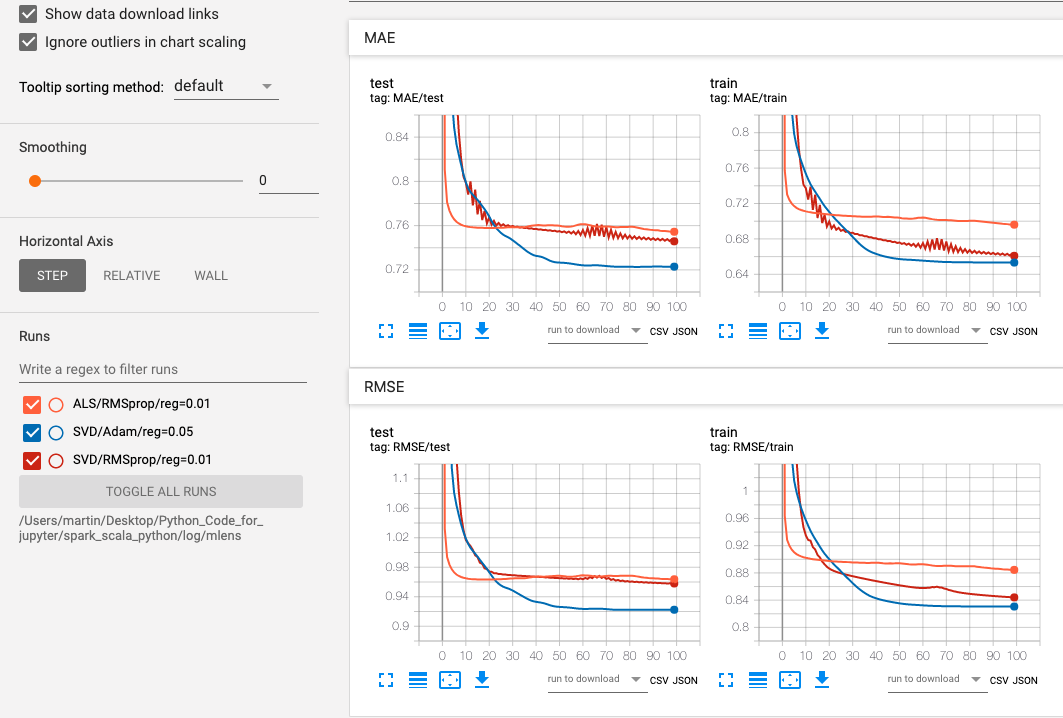
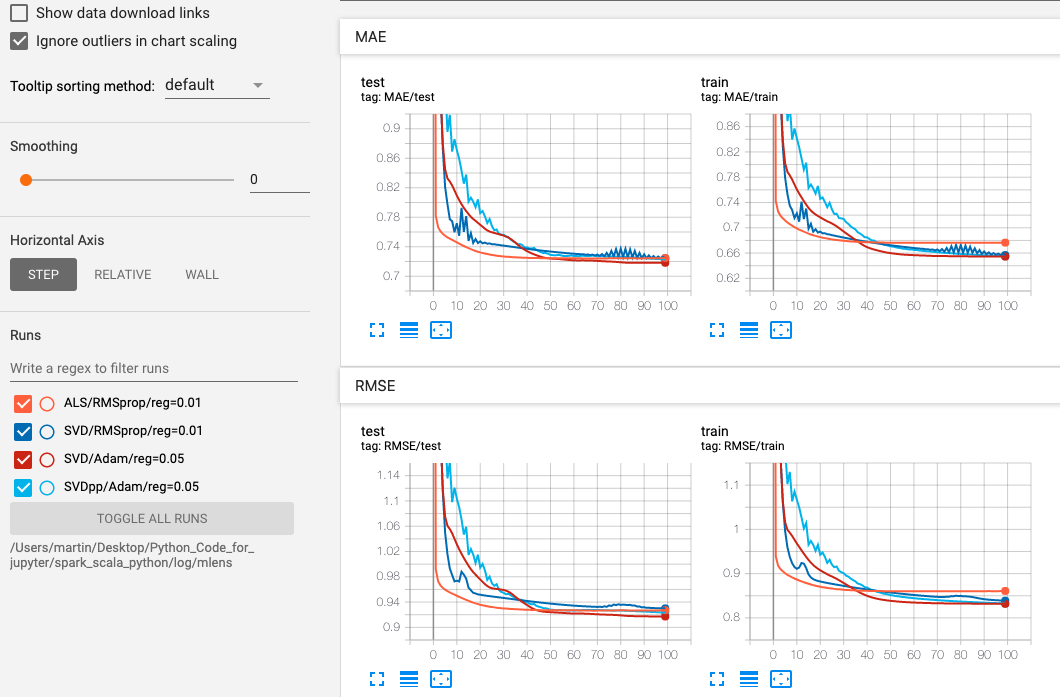
update

diff --git a/_posts/blog/2019-08-29-Rec_Sys_4.md b/_posts/blog/2019-08-29-Rec_Sys_4.md
@@ -1,6 +1,6 @@
 ---
 title: Recommender Systems (part 4)
-subtitle: Implementation of ALS and SVD Using PyTorch
+subtitle: Implementation of ALS, SVD and SVD++ Using PyTorch
 author: Ding Ma
 layout: post
 categories: [blog]
@@ -8,7 +8,7 @@ categories: [blog]
 
 <span style="font-weight:bold;font-size:32px">0. Introduction</span>
 
-In this blog, I will implement ALS, SVD and SVD with baselines using PyTorch. I will use them on the famous MovieLens 100K Dataset and its new version. Those 3 methods have already been discussed in previous blog [<span style="color:blue">here</span>](https://dingma129.github.io/blog/2019/08/27/Rec_Sys_2.html). For simplicity, all matrix factorization would be R=UV instead of R=UV^T during this blog.
+In this blog, I will implement ALS, SVD (with baselines) and SVD++  using PyTorch. I will use them on the famous MovieLens 100K Dataset and its new version. Those 3 methods have already been discussed in previous blog [<span style="color:blue">here</span>](https://dingma129.github.io/blog/2019/08/27/Rec_Sys_2.html). For simplicity, all matrix factorization would be R=UV instead of R=UV^T during this blog.
 
 ---
 <span style="font-weight:bold;font-size:32px">1. ALS</span>
@@ -145,8 +145,60 @@ def incompleteSVD(X, k=5, weights_train=weights_train, weights_test=weights_test
     return U.detach().clone(),V.detach().clone(),train_loss_list,test_loss_list
 ```
 
+<span style="font-weight:bold;font-size:32px">3. SVD++</span>
+
+The following is the `PyTorch` implementation of SVD++. It includes an extra implicit user factor term `FY`.
+```python
+def SVDpp(X, k=5, weights_train=weights_train, weights_test=weights_test,
+          optimizer=torch.optim.SGD, l2=True, reg=0.0, lr=0.1, epochs=200):
+    # un-normalized F
+    F0 = torch.where(X>0,torch.ones_like(X),torch.zeros_like(X))
+    # norms of F
+    Fn =  torch.norm(F0, p=2, dim=1,keepdim=True).detach()
+    # normalize
+    F = F0/Fn
+    n_rows,n_cols = X.shape
+    # used to compute mean
+    n_observed = weights_train.sum()
+    n_unobserved = weights_test.sum()
+    # record loss of train/test
+    train_rmse_list = []
+    test_rmse_list = []
+    train_mae_list = []
+    test_mae_list = []
+    # mu set to be 
+    mu = (X*weights_train).sum()/n_observed
+    # random initialization
+    Y = (torch.randn((n_cols,k),dtype=torch.float32)*0.1).clone().requires_grad_(True)
+    U = (torch.randn((n_rows,k),dtype=torch.float32)*0.1).clone().requires_grad_(True)
+    V = (torch.randn((k,n_cols),dtype=torch.float32)*0.1).clone().requires_grad_(True)
+    bu = torch.randn((n_rows,1),dtype=torch.float32,requires_grad=True)
+    bv = torch.randn((1,n_cols),dtype=torch.float32,requires_grad=True)
+    # specified optimizer with learning rate = lr
+    optimizer = optimizer([Y,U,V,bu,bv], lr=lr)
+    # training
+    for epoch in range(epochs):
+        # clear all gradients
+        optimizer.zero_grad()
+        X_pred = mu+bu+bv+(U+F@Y)@V
+        # compute loss function with regularization
+        loss = ((X_pred-X)*weights_train).pow(2).sum()/n_observed + reg * Y.pow(2).mean() + reg * U.pow(2).mean() + reg * V.pow(2).mean() + reg * bu.pow(2).mean() + reg * bv.pow(2).mean()
+        # back propagation
+        loss.backward()
+        optimizer.step()
+        # record loss
+        train_rmse_list.append(torch.sqrt(((X_pred-X)*weights_train).pow(2).sum()/n_observed).item())
+        test_rmse_list.append(torch.sqrt(((X_pred-X)*weights_test).pow(2).sum()/n_unobserved).item())
+        train_mae_list.append((((X_pred-X)*weights_train).abs().sum()/n_observed).item())
+        test_mae_list.append((((X_pred-X)*weights_test).abs().sum()/n_unobserved).item())
+    # return a detached cloned version of U and V
+    return U.detach().clone(),V.detach().clone(),train_rmse_list,test_rmse_list,train_mae_list,test_mae_list
+```
+
 ---
-<span style="font-weight:bold;font-size:32px">3. Comparing with `Surprise`'s implementation</span>
+<span style="font-weight:bold;font-size:32px">4. Comparing with `Surprise`'s implementation</span>
+
+<span style="font-weight:bold;font-size:28px">4.1 SVD with baselines</span>
 
 The following are the model performances of SVD (k=2) on MovieLens 100k with 5-fold cross-validation using `Surprise` and the above implementation. Both model runs for 20 epochs.
 ```python
@@ -237,15 +289,57 @@ Mean:
 	RMSE(train):0.9108		RMSE(test):	0.9443
 	MAE(train):	0.7166		MAE(test):	0.743
 ```
-We can see that the `PyTorch` implementation of `SVD` is much faster than the `Surprise` implementation.
+We can see that the `PyTorch` implementation (1.38 s) of `SVD` is slightly faster than the `Surprise` implementation (1.71 s).
+
+<span style="font-weight:bold;font-size:28px">4.2 SVD++</span>
+
+Running the same code as above using `SVD++`, we get
+```javascript
+Evaluating RMSE, MAE of algorithm SVDpp on 5 split(s).
+
+                  Fold 1  Fold 2  Fold 3  Fold 4  Fold 5  Mean    Std     
+RMSE (testset)    0.9202  0.9186  0.9295  0.9198  0.9156  0.9207  0.0047  
+MAE (testset)     0.7240  0.7217  0.7329  0.7254  0.7195  0.7247  0.0046  
+RMSE (trainset)   0.8685  0.8703  0.8726  0.8709  0.8616  0.8688  0.0038  
+MAE (trainset)    0.6848  0.6856  0.6881  0.6864  0.6788  0.6847  0.0032  
+Fit time          108.29  117.24  108.81  112.99  110.33  111.53  3.29    
+Test time         4.76    4.96    4.34    5.29    4.70    4.81    0.31  
+
+Fold 1:
+	Fold Size:	317372		Time Used:	1.37 seconds
+	RMSE(train):	0.947		RMSE(test):	0.9993
+	MAE(train):	0.7524		MAE(test):	0.7918
+Fold 2:
+	Fold Size:	317372		Time Used:	1.51 seconds
+	RMSE(train):	0.9638		RMSE(test):	1.0122
+	MAE(train):	0.7576		MAE(test):	0.7939
+Fold 3:
+	Fold Size:	317372		Time Used:	1.5 seconds
+	RMSE(train):	0.9838		RMSE(test):	1.026
+	MAE(train):	0.7824		MAE(test):	0.8144
+Fold 4:
+	Fold Size:	317372		Time Used:	1.35 seconds
+	RMSE(train):	1.0248		RMSE(test):	1.0761
+	MAE(train):	0.8137		MAE(test):	0.8533
+Fold 5:
+	Fold Size:	317372		Time Used:	1.33 seconds
+	RMSE(train):	1.0348		RMSE(test):	1.0727
+	MAE(train):	0.8115		MAE(test):	0.8452
+Mean:
+                            Time Used:	1.41 seconds
+	RMSE(train):	0.9908		RMSE(test):	1.0373
+	MAE(train):	0.7835		MAE(test):	0.8197
+```
+The `PyTorch` implementation of `SVD`(1.41 s) is 80 times faster than the `Surprise` implementation (111.53 s). 
 
 ---
-<span style="font-weight:bold;font-size:32px">4. TensorBoard</span>
+<span style="font-weight:bold;font-size:32px">5. TensorBoard</span>
 
 In this section, I will use the `TensorBoard` UI to visualize the following 3 `PyTorch` models. All three models use the best hyperparameters from tuning with epochs=100.
-1. ALS + RMSprop + reg=0.01
-2. SVD + Adam + reg=0.05
-3. SVD + RMSprop + reg=0.01
+1. ALS with RMSprop + reg=0.01
+2. SVD with Adam + reg=0.05
+3. SVD with RMSprop + reg=0.01
+4. SVD++ with RMSprop + reg=0.01
 
 The following code shows how to use `TensorBoard` with `PyTorch`.
 ```python
@@ -262,17 +356,18 @@ You will see two figures about
 1. RMSE and MAE losses for train/test data
 2. histograms showing the distributions of all prediction ratings of all users over all items
 
-The following one shows losses. We can see that `Adam` achieves the best train/test RMSE and MAE. Also `SVD` has shorter runtimes than `ALS`, but `ALS` converges faster.
+The following one shows losses. We can see that 
+* `SVD` with Adam and `SVD++` with Adam achieve the best train/test RMSE and MAE;
+* `SVD` and `SVD++` have shorter runtimes than `ALS`;
+* `ALS` converges the fastest, and `SVD` converges faster than `SVD++`.
 <center><img src="https://dingma129.github.io/assets/figures/rec/rec_4_tb1.png" width="1000" ></center>
-
-The following two show distributions of predictions. I have cropped all the values to [0,5] using `torch.clamp`. For `ALS`, there are quite a few values concentrated at 0, indicating a lot of predictions being negative numbers (around 60K out of 1.5M). For `SVD`, the predictions become quite stable after around 20 epoches, and only a little number of predictions being negative numbers (around 500 for Adam and 3K for RMSprop). 
+The following two show distributions of predictions. I have cropped all the values to [0,5] using `torch.clamp`. For `ALS`, there are quite a few values concentrated at 0, indicating a lot of predictions being negative numbers. For `SVD` and `SVD++`, the predictions become quite stable after around 20 epoches, and only a little number of predictions being negative numbers. 
 <center><img src="https://dingma129.github.io/assets/figures/rec/rec_4_tb2.png" width="1000" ></center>
 <center><img src="https://dingma129.github.io/assets/figures/rec/rec_4_tb3.png" width="1000" ></center>
-
 ---
-<span style="font-weight:bold;font-size:32px">5. Summary</span>
+<span style="font-weight:bold;font-size:32px">6. Summary</span>
 
-* The `PyTorch` implementation of `SVD` here is faster than the one in `Surprise`.
+* The `PyTorch` implementation of `SVD` and `SVD++` here is much faster than the one in `Surprise`.
 * The same thing can also be done in `TensorFlow`, and I will not discuss it here in detail.
 * We can use `PyTorch`+`TensorBoard` to visualize the model parameters and losses.
 * As always, `Adam` is a better choice for optimizer.
